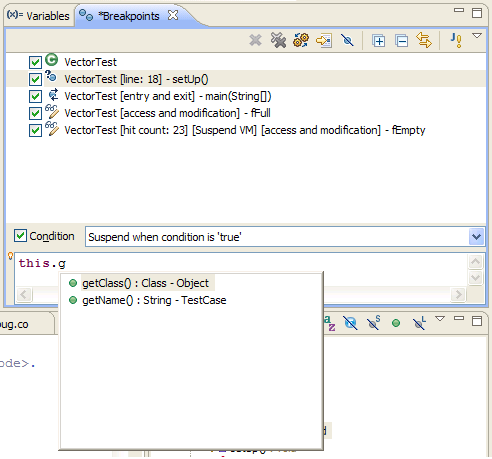
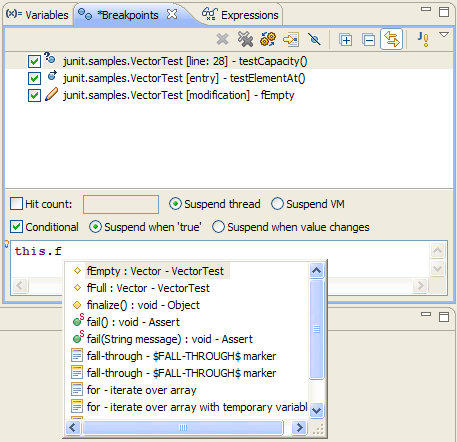
what's new: breakpoint detail panes

diff --git a/bundles/org.eclipse.platform.doc.user/whatsNew/platform_whatsnew.html b/bundles/org.eclipse.platform.doc.user/whatsNew/platform_whatsnew.html
@@ -460,15 +460,14 @@ document in the plug-in developer's guide.
 	<td align="left" valign="top" width="30%"><b>Breakpoint detail panes
 	</b></td>
 	<td valign="top" width="70%">The breakpoints view now provides detail panes
-	to display and edit breakpoint properties. To display detail panes, 
-	select <b>Layout &gt; Vertical</b> from the view's menu.
+	to display and edit breakpoint properties. Use the view's <b>Layout</b> menu
+	to configure the orientation of the detail pane or hide it. 
 	<p><img alt="Breakpoint Detail Panes" title="Breakpoint Detail Panes"
 	src="images/breakpoint-details.png"/><br/><br/></p>
-	<p>For example, the default detail pane for a Java line breakpoint allows its
+	<p>For example, the detail pane for a Java line breakpoint allows its
 	condition to be edited in place with content assist. Use the <b>File &gt; Save (Ctrl-S)</b>
-	action to save a condition that has been edited. Check box properties are saved immediately.
-	Another detail pane provides editors for suspend policy and hit count. You can switch detail
-	panes by selecting <b>Show Details As &gt; Breakpoint Settings</b> in the context menu.
+	action to save a condition that has been edited. Check box and radio button properties are
+	saved immediately.
 	</p>
 	</td>
 	</tr>
